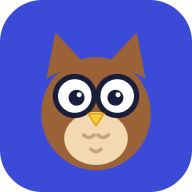
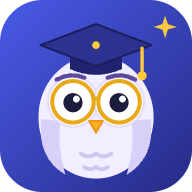
Hoca Nova yeniden tasarlandı: akademik kepli, ince altın gözlüklü beyaz baykuş; tek kaynak owlArt.js; ikonlar, açılış ekranı ve paylaşım kartı güncellendi

diff --git a/app/index.html b/app/index.html
@@ -10,7 +10,7 @@
     <title>Kelime Koçu · Hikayenglish LGS</title>
   </head>
   <body>
-    <div id="root"><div class="splash" role="status"><div class="splash-logo"><span class="logo">Hikay<b>E</b>nglish</span></div><svg class="nova" width="64" height="64" viewBox="0 0 100 100" aria-hidden="true"><rect width="100" height="100" rx="28" class="nova-bg"/><polygon points="22,40 27,14 42,30" fill="#9A6236"/><polygon points="78,40 73,14 58,30" fill="#9A6236"/><ellipse cx="50" cy="60" rx="31" ry="32" fill="#9A6236"/><ellipse cx="50" cy="74" rx="18" ry="15" fill="#F3D9B1"/><path d="M43 72q3 3 6 0M51 72q3 3 6 0M47 80q3 3 6 0" fill="none" stroke="#C9A27A" stroke-width="2" stroke-linecap="round"/><circle cx="38" cy="50" r="11" fill="#fff" stroke="#1B1E3A" stroke-width="3"/><circle cx="62" cy="50" r="11" fill="#fff" stroke="#1B1E3A" stroke-width="3"/><path d="M49 49h2" stroke="#1B1E3A" stroke-width="3" stroke-linecap="round"/><circle cx="39" cy="51" r="4.5" fill="#1B1E3A"/><circle cx="61" cy="51" r="4.5" fill="#1B1E3A"/><circle cx="40.5" cy="49.3" r="1.4" fill="#fff"/><circle cx="62.5" cy="49.3" r="1.4" fill="#fff"/><polygon points="45.5,60 54.5,60 50,67" fill="#FFC93C" stroke="#E0A419" stroke-width="1" stroke-linejoin="round"/></svg><p class="muted">Hoca Nova hazırlanıyor…</p><div class="dots3" aria-hidden="true"><i></i><i></i><i></i></div></div></div>
+    <div id="root"><div class="splash" role="status"><div class="splash-logo"><span class="logo">Hikay<b>E</b>nglish</span></div><svg class="nova" width="64" height="64" viewBox="0 0 100 100" aria-hidden="true"><defs><linearGradient id="novaBg" x1="0" y1="0" x2="1" y2="1"><stop offset="0" stop-color="#4A5AE8"/><stop offset="1" stop-color="#262B86"/></linearGradient></defs><rect width="100" height="100" rx="28" fill="url(#novaBg)"/><ellipse cx="50" cy="61" rx="30" ry="32" fill="#F2EEFF"/><path d="M21.5 62Q19 82 34 91Q29.5 76 31.5 63Z" fill="#D8D0F6"/><path d="M78.5 62Q81 82 66 91Q70.5 76 68.5 63Z" fill="#D8D0F6"/><path d="M42 80q4 3 8 0q4 3 8 0M44 87q3 2.4 6 0q3 2.4 6 0" fill="none" stroke="#CFC6F0" stroke-width="2" stroke-linecap="round"/><circle cx="38" cy="53" r="13" fill="#fff" stroke="#E4DEF9" stroke-width="1.2"/><circle cx="62" cy="53" r="13" fill="#fff" stroke="#E4DEF9" stroke-width="1.2"/><circle cx="38" cy="53.5" r="5" fill="#1B1E3A"/><circle cx="62" cy="53.5" r="5" fill="#1B1E3A"/><circle cx="39.8" cy="51.6" r="1.8" fill="#fff"/><circle cx="63.8" cy="51.6" r="1.8" fill="#fff"/><circle cx="38" cy="53" r="10.8" fill="none" stroke="#E8A91A" stroke-width="2.1"/><circle cx="62" cy="53" r="10.8" fill="none" stroke="#E8A91A" stroke-width="2.1"/><path d="M48.7 52q1.3-1.6 2.6 0" fill="none" stroke="#E8A91A" stroke-width="2" stroke-linecap="round"/><path d="M29.5 41.5Q36.5 37.5 44 40.5M56 40.5Q63.5 37.5 70.5 41.5" fill="none" stroke="#5B4A9E" stroke-width="2.2" stroke-linecap="round"/><path d="M46.4 63 53.6 63 50 69.2Z" fill="#FFB020" stroke="#E8941A" stroke-width=".9" stroke-linejoin="round"/><path d="M36.5 28.5V36Q50 42 63.5 36V28.5Z" fill="#1F2370"/><path d="M50 12.5 79 23.5 50 34.5 21 23.5Z" fill="#2C328F" stroke="#1B1E5A" stroke-width="1" stroke-linejoin="round"/><path d="M74 25.2V38" stroke="#FFC93C" stroke-width="1.8" stroke-linecap="round"/><circle cx="74" cy="39.5" r="2.4" fill="#FFC93C"/><circle cx="50" cy="23.5" r="2" fill="#FFC93C"/><path d="M86 8 87.4 12.6 92 14 87.4 15.4 86 20 84.6 15.4 80 14 84.6 12.6Z" fill="#FFC93C"/></svg><p class="muted">Hoca Nova hazırlanıyor…</p><div class="dots3" aria-hidden="true"><i></i><i></i><i></i></div></div></div>
     <script type="module" src="/src/main.jsx"></script>
   </body>
 </html>

diff --git a/app/src/owlArt.js b/app/src/owlArt.js
@@ -1,0 +1,3 @@
+// Hoca Nova: tek kaynak. Başında akademik kep, ince altın gözlük; beyaz-lavanta baykuş, lacivert-mavi zemin.
+export const OWL_DEFS = "<defs><linearGradient id=\"novaBg\" x1=\"0\" y1=\"0\" x2=\"1\" y2=\"1\"><stop offset=\"0\" stop-color=\"#4A5AE8\"/><stop offset=\"1\" stop-color=\"#262B86\"/></linearGradient></defs>"
+export const OWL = "<ellipse cx=\"50\" cy=\"61\" rx=\"30\" ry=\"32\" fill=\"#F2EEFF\"/><path d=\"M21.5 62Q19 82 34 91Q29.5 76 31.5 63Z\" fill=\"#D8D0F6\"/><path d=\"M78.5 62Q81 82 66 91Q70.5 76 68.5 63Z\" fill=\"#D8D0F6\"/><path d=\"M42 80q4 3 8 0q4 3 8 0M44 87q3 2.4 6 0q3 2.4 6 0\" fill=\"none\" stroke=\"#CFC6F0\" stroke-width=\"2\" stroke-linecap=\"round\"/><circle cx=\"38\" cy=\"53\" r=\"13\" fill=\"#fff\" stroke=\"#E4DEF9\" stroke-width=\"1.2\"/><circle cx=\"62\" cy=\"53\" r=\"13\" fill=\"#fff\" stroke=\"#E4DEF9\" stroke-width=\"1.2\"/><circle cx=\"38\" cy=\"53.5\" r=\"5\" fill=\"#1B1E3A\"/><circle cx=\"62\" cy=\"53.5\" r=\"5\" fill=\"#1B1E3A\"/><circle cx=\"39.8\" cy=\"51.6\" r=\"1.8\" fill=\"#fff\"/><circle cx=\"63.8\" cy=\"51.6\" r=\"1.8\" fill=\"#fff\"/><circle cx=\"38\" cy=\"53\" r=\"10.8\" fill=\"none\" stroke=\"#E8A91A\" stroke-width=\"2.1\"/><circle cx=\"62\" cy=\"53\" r=\"10.8\" fill=\"none\" stroke=\"#E8A91A\" stroke-width=\"2.1\"/><path d=\"M48.7 52q1.3-1.6 2.6 0\" fill=\"none\" stroke=\"#E8A91A\" stroke-width=\"2\" stroke-linecap=\"round\"/><path d=\"M29.5 41.5Q36.5 37.5 44 40.5M56 40.5Q63.5 37.5 70.5 41.5\" fill=\"none\" stroke=\"#5B4A9E\" stroke-width=\"2.2\" stroke-linecap=\"round\"/><path d=\"M46.4 63 53.6 63 50 69.2Z\" fill=\"#FFB020\" stroke=\"#E8941A\" stroke-width=\".9\" stroke-linejoin=\"round\"/><path d=\"M36.5 28.5V36Q50 42 63.5 36V28.5Z\" fill=\"#1F2370\"/><path d=\"M50 12.5 79 23.5 50 34.5 21 23.5Z\" fill=\"#2C328F\" stroke=\"#1B1E5A\" stroke-width=\"1\" stroke-linejoin=\"round\"/><path d=\"M74 25.2V38\" stroke=\"#FFC93C\" stroke-width=\"1.8\" stroke-linecap=\"round\"/><circle cx=\"74\" cy=\"39.5\" r=\"2.4\" fill=\"#FFC93C\"/><circle cx=\"50\" cy=\"23.5\" r=\"2\" fill=\"#FFC93C\"/><path d=\"M86 8 87.4 12.6 92 14 87.4 15.4 86 20 84.6 15.4 80 14 84.6 12.6Z\" fill=\"#FFC93C\"/>"

diff --git a/app/src/components/NovaAvatar.jsx b/app/src/components/NovaAvatar.jsx
@@ -1,21 +1,12 @@
-// Hoca Nova: gözlüklü, bilge ama sevimli bir baykuş. Zemin temadan gelir; baykuşun renkleri sabittir, açık ve koyu modda da okunur.
+import { OWL, OWL_DEFS } from '../owlArt.js'
+
+// Hoca Nova avatarı (tek kaynak: owlArt.js). Zemin degrade, baykuş sabit renkli: açık ve koyu modda aynı görünür.
 export default function NovaAvatar({ size = 44 }) {
   return (
     <svg className="nova" width={size} height={size} viewBox="0 0 100 100" aria-hidden="true">
-      <rect width="100" height="100" rx="28" className="nova-bg"/>
-      <polygon points="22,40 27,14 42,30" fill="#9A6236"/>
-      <polygon points="78,40 73,14 58,30" fill="#9A6236"/>
-      <ellipse cx="50" cy="60" rx="31" ry="32" fill="#9A6236"/>
-      <ellipse cx="50" cy="74" rx="18" ry="15" fill="#F3D9B1"/>
-      <path d="M43 72q3 3 6 0M51 72q3 3 6 0M47 80q3 3 6 0" fill="none" stroke="#C9A27A" strokeWidth="2" strokeLinecap="round"/>
-      <circle cx="38" cy="50" r="11" fill="#fff" stroke="#1B1E3A" strokeWidth="3"/>
-      <circle cx="62" cy="50" r="11" fill="#fff" stroke="#1B1E3A" strokeWidth="3"/>
-      <path d="M49 49h2" stroke="#1B1E3A" strokeWidth="3" strokeLinecap="round"/>
-      <circle cx="39" cy="51" r="4.5" fill="#1B1E3A"/>
-      <circle cx="61" cy="51" r="4.5" fill="#1B1E3A"/>
-      <circle cx="40.5" cy="49.3" r="1.4" fill="#fff"/>
-      <circle cx="62.5" cy="49.3" r="1.4" fill="#fff"/>
-      <polygon points="45.5,60 54.5,60 50,67" fill="#FFC93C" stroke="#E0A419" strokeWidth="1" strokeLinejoin="round"/>
+      <g dangerouslySetInnerHTML={{ __html: OWL_DEFS }} />
+      <rect width="100" height="100" rx="28" fill="url(#novaBg)" />
+      <g dangerouslySetInnerHTML={{ __html: OWL }} />
     </svg>
   )
 }

diff --git a/app/src/shareCard.js b/app/src/shareCard.js
@@ -1,5 +1,5 @@
 // Paylaşılabilir sonuç kartı (Instagram hikâyesi boyutu 1080x1920): canvas ile çizilir, kişisel bilgi içermez.
-const OWL = '<polygon points="22,40 27,14 42,30" fill="#9A6236"/><polygon points="78,40 73,14 58,30" fill="#9A6236"/><ellipse cx="50" cy="60" rx="31" ry="32" fill="#9A6236"/><ellipse cx="50" cy="74" rx="18" ry="15" fill="#F3D9B1"/><path d="M43 72q3 3 6 0M51 72q3 3 6 0M47 80q3 3 6 0" fill="none" stroke="#C9A27A" stroke-width="2" stroke-linecap="round"/><circle cx="38" cy="50" r="11" fill="#fff" stroke="#1B1E3A" stroke-width="3"/><circle cx="62" cy="50" r="11" fill="#fff" stroke="#1B1E3A" stroke-width="3"/><path d="M49 49h2" stroke="#1B1E3A" stroke-width="3" stroke-linecap="round"/><circle cx="39" cy="51" r="4.5" fill="#1B1E3A"/><circle cx="61" cy="51" r="4.5" fill="#1B1E3A"/><circle cx="40.5" cy="49.3" r="1.4" fill="#fff"/><circle cx="62.5" cy="49.3" r="1.4" fill="#fff"/><polygon points="45.5,60 54.5,60 50,67" fill="#FFC93C" stroke="#E0A419" stroke-width="1" stroke-linejoin="round"/>'
+import { OWL } from './owlArt.js'
 const owlImage = () => new Promise((res, rej) => {
   const img = new Image()
   img.onload = () => res(img); img.onerror = rej
